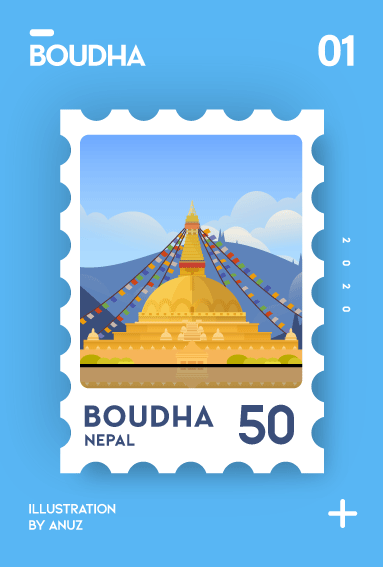
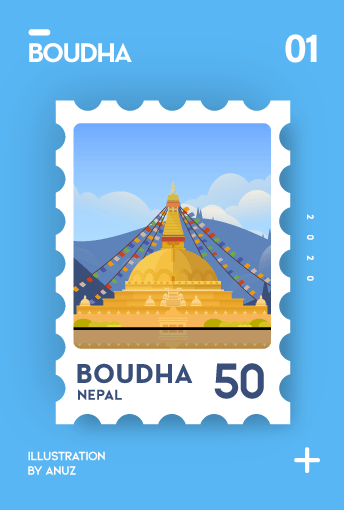
Changes: Second Book

diff --git a/index.html b/index.html
@@ -10,11 +10,11 @@
 <body>
     <section>
         <div class="book">
-            <img src="assets/img/Front.png" alt="">
+            <img src="https://raw.githubusercontent.com/anuzbvbmaniac/3d-book-html-css/master/assets/img/Front.png" alt="">
+        </div>
+        <div class="book ml-100">
+            <img src="https://raw.githubusercontent.com/anuzbvbmaniac/3d-book-html-css/master/assets/img/Front.png" alt="">
         </div>
     </section>
-    <h1 style="position: absolute; top: 36%; left: 30px; color: white; font-size: 56px; text-shadow: 3px 3px 3px rgba(0,0,0,0.4)">BOUDHA</h1>
-    <p style="position: absolute; top: 46%; left: 30px; color: white; font-size: 40px; text-shadow: 3px 3px 3px rgba(0,0,0,0.4)">3D Book Hover Effect</p>
-    <p style="position: absolute; top: 54%; left: 30px; color: white; font-size: 28px;">This is </p>
 </body>
 </html>

diff --git a/assets/css/style.css b/assets/css/style.css
@@ -23,11 +23,15 @@ section {
 
 section .book {
     position: relative;
-    width: 383px;
-    height: 567px;
+    width: 345px;
+    height: 510px;
     box-shadow: 20px 20px 20px rgba(0, 0, 0, 0.2);
     transform-style: preserve-3d;
     transition: 0.5s;
+}
+
+.ml-100 {
+    margin-left: 50px;
 }
 
 section .book:hover {
@@ -42,7 +46,7 @@ section .book:active {
 section .book:before {
     content: '';
     position: absolute;
-    width: 60px;
+    width: 54px;
     height: 100%;
     transform-origin: left;
     background: url("../img/mid.png") center;
@@ -56,7 +60,7 @@ section .book:after {
     height: 100%;
     transform-origin: left;
     background: url("../img/back.png") center;
-    transform: rotateY(180deg) translateZ(60px);
+    transform: rotateY(180deg) translateZ(54px);
 }
 
 section .book img {
